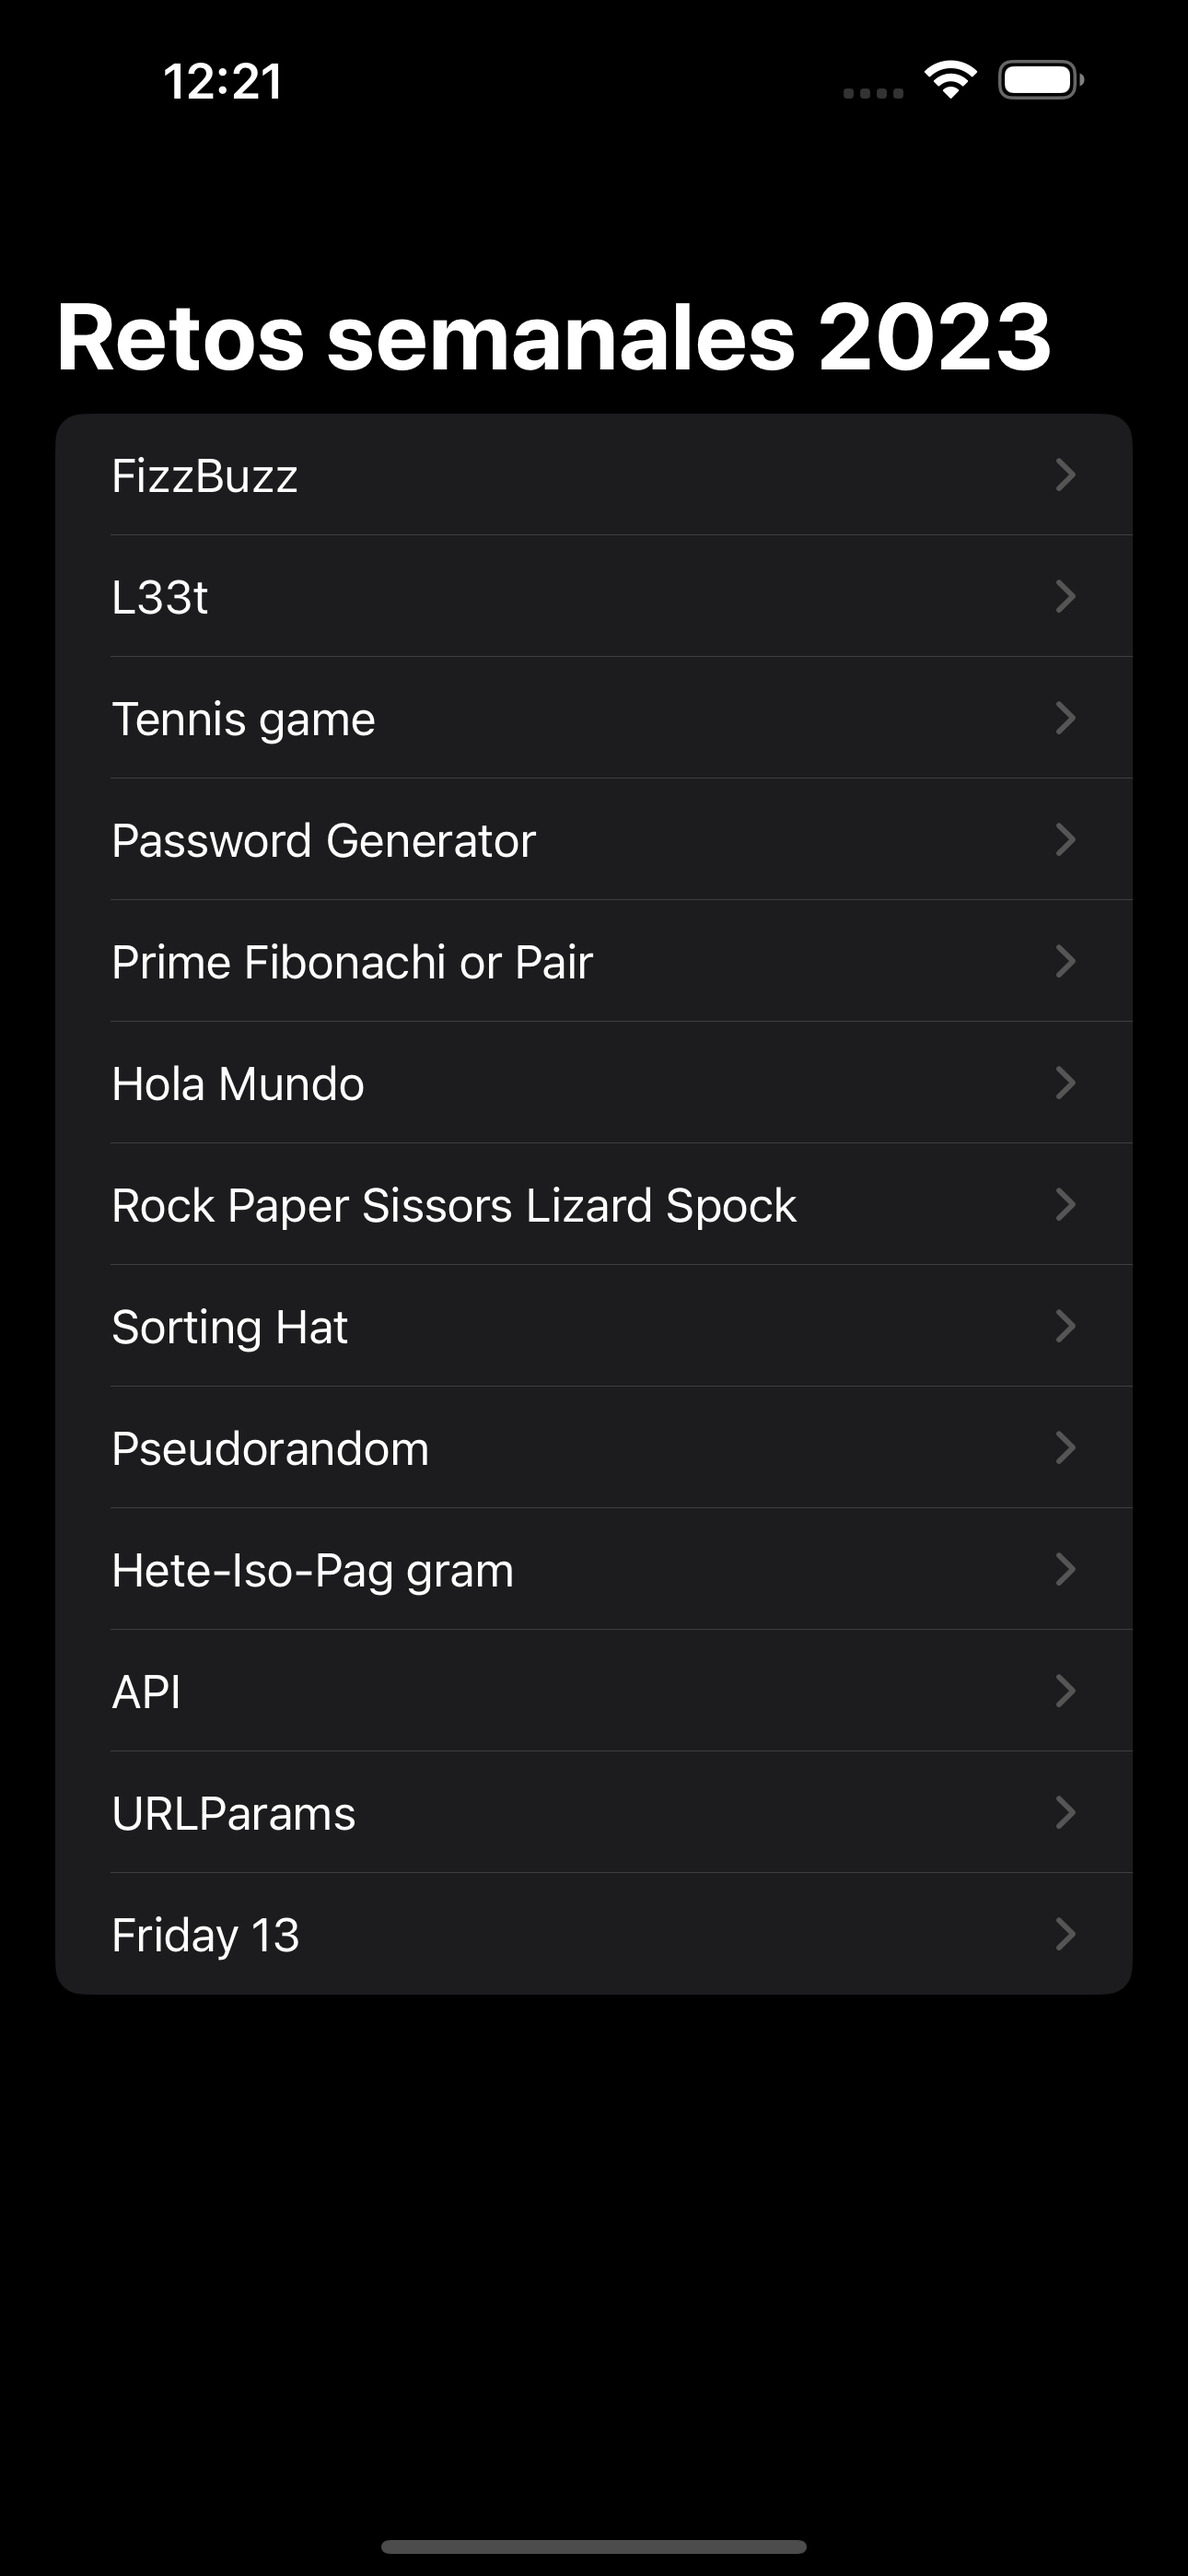
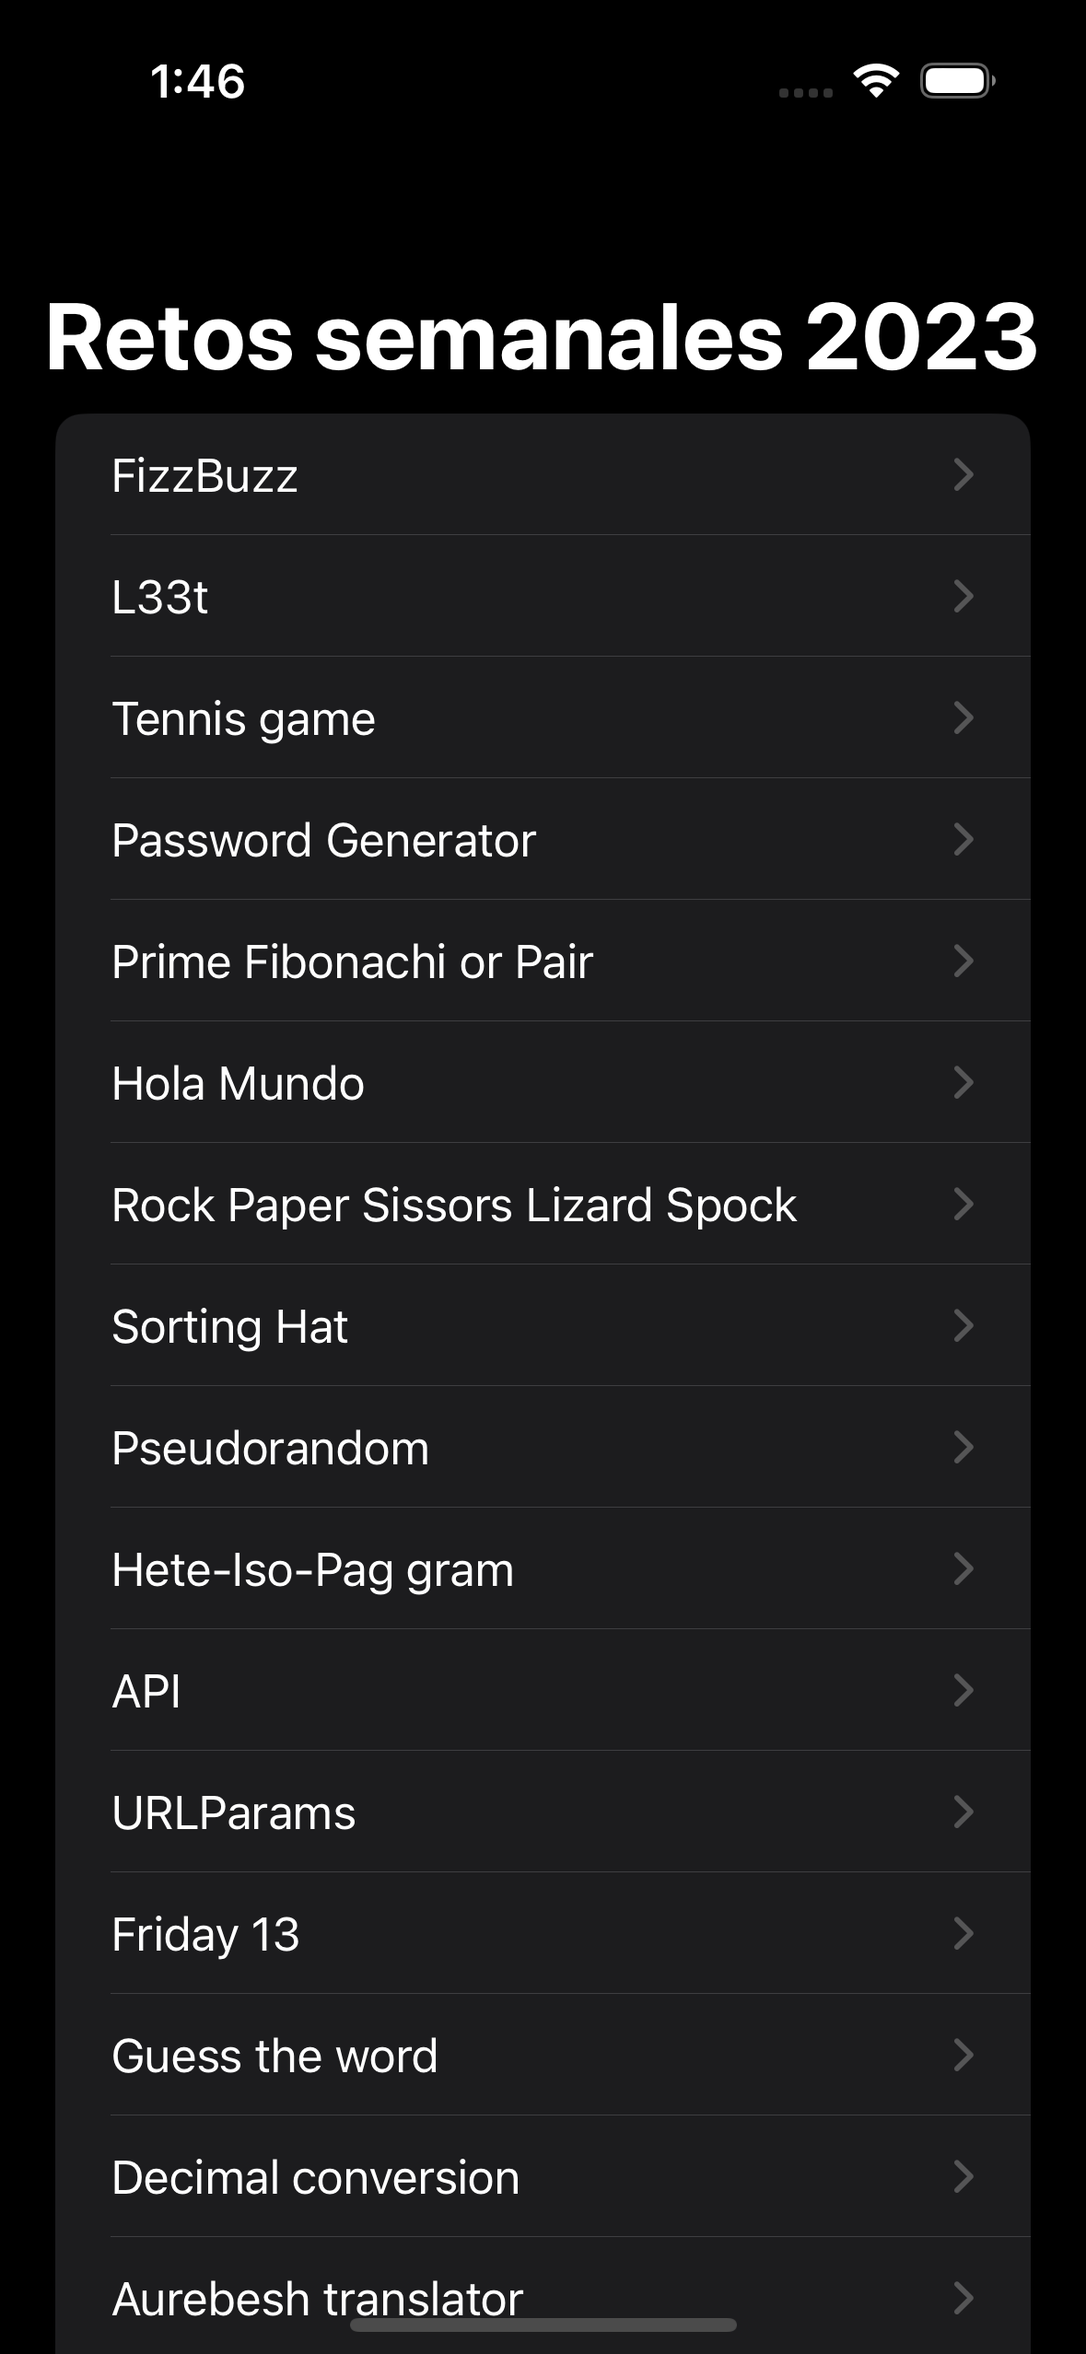
[ADD] Completed challenge for week 16

diff --git a/WeeklyChallenges2023/WeeklyChallenges2023/Views/Ladder/LadderViewModel.swift b/WeeklyChallenges2023/WeeklyChallenges2023/Views/Ladder/LadderViewModel.swift
@@ -1,0 +1,46 @@
+//
+//  LadderViewModel.swift
+//  WeeklyChallenges2023
+//
+//  Created by Guillermo Saavedra Dorantes  on 29/04/23.
+//
+
+import Foundation
+
+class LadderViewModel: ObservableObject {
+    @Published var isPositive = true {
+        didSet {
+            if let numberOfStepsInt = Int(numberOfSteps) {
+                createLadder(numberOfStepsInt)
+            }
+        }
+    }
+    @Published var numberOfSteps: String = "" {
+        didSet {
+            if let numberOfStepsInt = Int(numberOfSteps) {
+                createLadder(numberOfStepsInt)
+            }
+        }
+    }
+    @Published var ladderText: String = ""
+    
+    private func createLadder(_ steps: Int) {
+        if steps == 0 {
+            ladderText = "__"
+        }
+        if isPositive {
+            ladderText.append("_\n")
+            for step in 0..<steps {
+                ladderText.append(String(repeating: "   ", count: step + 1))
+                ladderText.append("|_\n")
+            }
+        } else {
+            ladderText.append(String(repeating: "   ", count: steps + 1))
+            ladderText.append("_\n")
+            for step in 0..<steps {
+                ladderText.append(String(repeating: "   ", count: steps - step))
+                ladderText.append("_|\n")
+            }
+        }
+    }
+}

diff --git a/WeeklyChallenges2023/WeeklyChallenges2023/Views/Ladder/LadderView.swift b/WeeklyChallenges2023/WeeklyChallenges2023/Views/Ladder/LadderView.swift
@@ -1,0 +1,48 @@
+//
+//  LadderView.swift
+//  WeeklyChallenges2023
+//
+//  Created by Guillermo Saavedra Dorantes  on 29/04/23.
+//
+
+import SwiftUI
+
+struct LadderView: View {
+    
+    @ObservedObject var viewModel = LadderViewModel()
+    
+    var body: some View {
+        VStack {
+            HStack {
+                Button {
+                    viewModel.isPositive = true
+                } label: {
+                    Text("+")
+                }
+                .font(.system(size: 80))
+                .bold()
+                
+                Button {
+                    viewModel.isPositive = false
+                } label: {
+                    Text("-")
+                }
+                .font(.system(size: 80))
+                .bold()
+            }
+            TextField(text: $viewModel.numberOfSteps) {
+                Text("Give me the number of steps")
+            }.textFieldStyle(RoundedBorderTextFieldStyle())
+                .keyboardType(.decimalPad)
+            
+            Text(viewModel.ladderText)
+        }
+        .padding()
+    }
+}
+
+struct LadderView_Previews: PreviewProvider {
+    static var previews: some View {
+        LadderView()
+    }
+}

diff --git a/WeeklyChallenges2023/WeeklyChallenges2023/ContentView.swift b/WeeklyChallenges2023/WeeklyChallenges2023/ContentView.swift
@@ -25,6 +25,7 @@ struct ContentView: View {
         ChallengesCells(title: "Guess the word", viewClass: AnyView(WordGuessView())),
         ChallengesCells(title: "Decimal conversion", viewClass: AnyView(DecimalConversionView())),
         ChallengesCells(title: "Aurebesh translator", viewClass: AnyView(AurebeshTranslatorView())),
+        ChallengesCells(title: "Ladders", viewClass: AnyView(LadderView())),
     ]
     
     var body: some View {
